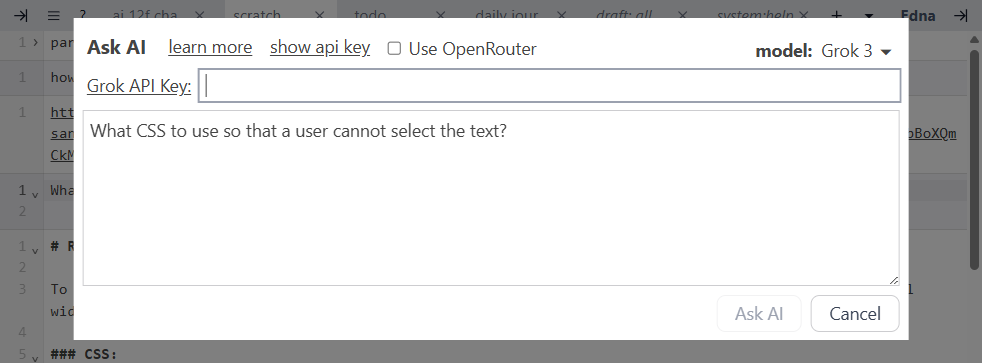
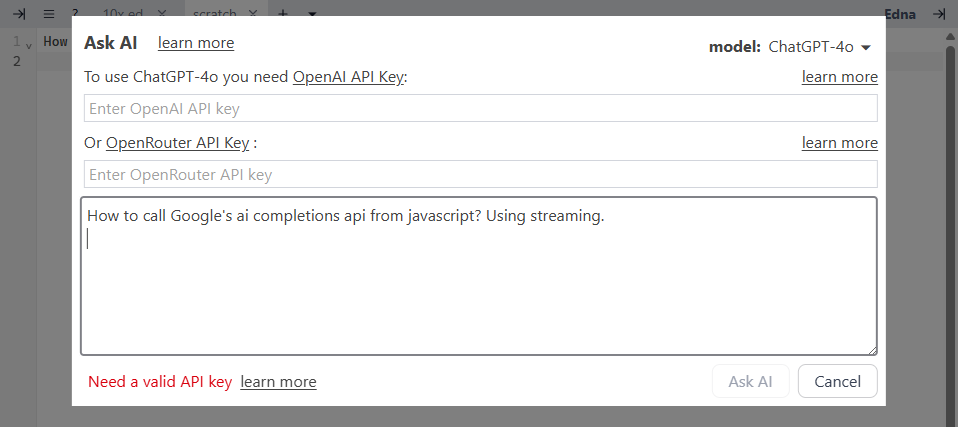
update docs for Ask AI UI tweaks

diff --git a/src/public/help-win.html b/src/public/help-win.html
@@ -191,7 +191,7 @@ Ctrl + Shift + F       Search in all notes
 <p><code>Rename current note</code> in command palette (<code>Ctrl + Shift + K</code>).</p>
 <p><img src="/help-rename-note.png" alt="Rename note"></p>
 <h1 id="sidebar" tabindex="-1"><a class="header-anchor" href="#sidebar">Sidebar</a></h1>
-<p>Click icon in top left corner to show and hide sidebar:</p>
+<p>Click icon in top left corner to show / hide sidebar:</p>
 <p><img src="/help-sidebar.png" alt="Sidebar"></p>
 <h1 id="default-notes" tabindex="-1"><a class="header-anchor" href="#default-notes">Default notes</a></h1>
 <p>At first run we create 3 default notes:</p>
@@ -205,7 +205,7 @@ Ctrl + Shift + F       Search in all notes
 <p><code>inbox</code> for storing things to process later e.g. links to YouTube videos to watch later or web pages to read later.</p>
 <p><code>daily journal</code> is for daily notes. We auto-create a block for each day.</p>
 <h1 id="search-and-replace" tabindex="-1"><a class="header-anchor" href="#search-and-replace">Search and replace</a></h1>
-<p>Press <code>Ctrl + F</code> for search UI:</p>
+<p>Press <code>Ctrl + F</code> for search / replace UI:</p>
 <p><img src="/help-find.png" alt="Search in note"></p>
 <p>We support:</p>
 <ul>
@@ -219,7 +219,7 @@ Ctrl + Shift + F       Search in all notes
 <li><code>Ctrl + Shift + F</code></li>
 <li><code>Find in notes</code> in Command Palette (Mod + Shift + K)</li>
 </ul>
-<p><img src="/help-notes-search.png" alt="Search in notes"></p>
+<p><img src="/help-find-all-notes.png" alt="Search in notes"></p>
 <p>The search algorightm is:</p>
 <ul>
 <li>if you search for <code>foo,</code> it'll find all lines that have <code>foo</code></li>
@@ -227,7 +227,7 @@ Ctrl + Shift + F       Search in all notes
 <li>if you want exact search: <code>&quot;foo bar&quot;</code></li>
 </ul>
 <h1 id="ask-ai" tabindex="-1"><a class="header-anchor" href="#ask-ai">Ask AI</a></h1>
-<p>We provide a basic functionality for asking AI/LLM a question and getting a response.</p>
+<p>Edna has a basic AI chat functionality. You can ask AI a question and get a response.</p>
 <p>It's optimized for the following workflow:</p>
 <ul>
 <li>type your question in a block</li>
@@ -236,33 +236,41 @@ Ctrl + Shift + F       Search in all notes
 <li>send the query to AI / LLM and get a response</li>
 <li>optionally insert the response as a new block</li>
 </ul>
-<p>Use context menu <code>Ask AI</code> or <code>Ask AI</code> command in command palette (<code>Ctrl + Shift + K</code>).</p>
-<p>We open AI chat interface pre-populated with the content of selection or current block.</p>
+<p>To invoke AI chat:</p>
+<ul>
+<li>context menu <code>Ask AI</code></li>
+<li><code>Ask AI</code> command in command palette (<code>Ctrl + Shift + K</code>)</li>
+</ul>
+<p>The question is pre-populated with the content of selection or current block.</p>
 <p><img src="/help-ask-ai.png" alt="Ask AI"></p>
-<p>You can edit your question and press <code>Ask AI</code> button to send the question and receive the response.</p>
+<p>You can edit your question then click <code>Ask AI</code> button to send the question and receive the response.</p>
 <p>Once you receive the response, you can insert it as new block.</p>
 <p><img src="/help-ask-ai-response.png" alt="Ask AI Response"></p>
-<h2 id="ai-model-picker" tabindex="-1"><a class="header-anchor" href="#ai-model-picker">AI Model Picker</a></h2>
-<p>We support a lot of AI models. You can pick the model using selector in upper right corner.</p>
-<p><img src="/help-ask-ai-pick-model.png" alt="Ask AI models"></p>
-<p>We don't charge for AI but AI providers do. We show the price for million input tokens and million output tokens on the right.</p>
-<p>You need to provide your own API key.</p>
+<h2 id="api-keys" tabindex="-1"><a class="header-anchor" href="#api-keys">API keys</a></h2>
+<p>But first, you'll need to provide an API key.</p>
+<p>We don't charge for AI but AI providers do.</p>
 <p><img src="/help-ask-ai-api-key.png" alt="Ask AI enter key"></p>
 <p>We support:</p>
 <ul>
-<li><a href="openai.com" target="_blank">OpenAI</a> for ChatGPT etc.</li>
-<li><a href="https://x.ai/" target="_blank">xAI</a> for Grok</li>
-<li><a href="https://openrouter.ai/" target="_blank">OpenRouter</a> for all models (including OpenAI / xAI models)</li>
+<li><a href="openai.com" target="_blank">OpenAI</a> for ChatGPT etc. Read how to <a href="#getting-openai-api-key">get OpenAI key</a></li>
+<li><a href="https://x.ai/" target="_blank">xAI</a> for Grok. Read how to <a href="#getting-xai-(grok)-api-key">get xAI key</a></li>
+<li><a href="https://openrouter.ai/" target="_blank">OpenRouter</a> for all models (including OpenAI / xAI models). Read how to <a href="#getting-openrouter-api-key">get OpenRouter key</a></li>
 </ul>
-<p>If you don't have API key, you need to get one. We recommend creating a unique api key for Edna.</p>
-<p>Different models have different prices charged by API providers (not us).</p>
-<p>The charge per usage. There's a fee for the size of your question (input tokens) and size of the response (output tokens).</p>
+<p>We recommend creating a unique API key for Edna.</p>
+<p>If you provide both xAI/OpenAI API key and OpenRouter API key, we'll use xAI/OpenAI.</p>
+<h2 id="ai-model-picker" tabindex="-1"><a class="header-anchor" href="#ai-model-picker">AI Model Picker</a></h2>
+<p>We support 169 AI models. You can pick the model using picker in upper right corner.</p>
+<p><img src="/help-ask-ai-pick-model.png" alt="Ask AI models"></p>
+<p>We don't charge for AI but AI providers do.</p>
+<p>Different models have different prices charged by API providers.</p>
+<p>They charge per usage, not as a subscription. If you don't use the API, you are not charged.</p>
+<p>There's a fee for the size of your question (input tokens) and size of the response (output tokens).</p>
 <p>Token is pretty much a word so think &quot;number of words in the question or response&quot;.</p>
-<p>We show the prices per million input tokens and million output tokens on the right side of the model selector.</p>
+<p>We show the prices per million input tokens and million output tokens on the right side of the model picker.</p>
 <h2 id="free-models" tabindex="-1"><a class="header-anchor" href="#free-models">Free models</a></h2>
-<p>Some OpenRouter models are free. They show 0 for the price. You can also type <strong>free</strong> in model selector to see free models.</p>
+<p>Some OpenRouter models are free. They show 0 for the price. You can also type <strong>free</strong> in model picker to see free models.</p>
 <p><img src="/help-ask-ai-free-models.png" alt="Ask AI free models"></p>
-<p>You still need an OpenRouter API key to use free models.</p>
+<p>You still need an <a href="#getting-openrouter-api-key">OpenRouter API key</a> and setup billing to use free models.</p>
 <h2 id="getting-openai-api-key" tabindex="-1"><a class="header-anchor" href="#getting-openai-api-key">Getting OpenAI API key</a></h2>
 <p>To use OpenAI models you need to obtain API key from <a href="https://platform.openai.com/settings/organization/api-keys" target="_blank">OpenAI</a>.</p>
 <p>You need to create an account and setup billing. OpenAI charges for usage of API calls so you don't pay if you don't use the API.</p>
@@ -276,12 +284,12 @@ Ctrl + Shift + F       Search in all notes
 <p>To make it easier to compare prices, we show the price for million input tokens and a million output tokens in <a href="#ai-model-picker">AI model picker</a>.</p>
 <p>You can also use OpenRouter API key (they charge ~5% on top of xAI prices).</p>
 <h2 id="getting-openrouter-api-key" tabindex="-1"><a class="header-anchor" href="#getting-openrouter-api-key">Getting OpenRouter API Key</a></h2>
-<p>To use majority of models you need to obtain API key from <a href="https://openrouter.ai/settings/keys" target="_blank">OpenRouter</a>.</p>
+<p>All models can be used via OpenRouter. You need to obtain API key from <a href="https://openrouter.ai/settings/keys" target="_blank">OpenRouter</a>.</p>
 <p>You need to create an account and setup billing. OpenRouter charges for usage of API calls so you don't pay if you don't use the API.</p>
 <p>They charge per input tokens and output tokens. A token is more or less a word.</p>
 <p>To make it easier to compare prices, we show the price for million input tokens and a million output tokens in <a href="#ai-model-picker">AI model picker</a>.</p>
 <p>OpenRouter provides a unified interface for accessing models from many providers.</p>
-<p>They charge the provider's price plus ~5% to provide their service.</p>
+<p>They charge the provider's price plus around 5%.</p>
 <p>OpenRouter provides free models but you still need to have an API key.</p>
 <h1 id="storing-notes-on-disk" tabindex="-1"><a class="header-anchor" href="#storing-notes-on-disk">Storing notes on disk</a></h1>
 <p>By default notes are stored in the browser (localStorage).</p>

diff --git a/src/public/help-mac.html b/src/public/help-mac.html
@@ -190,7 +190,7 @@
 <p><code>Rename current note</code> in command palette (<code>⌘ + Shift + K</code>).</p>
 <p><img src="/help-rename-note.png" alt="Rename note"></p>
 <h1 id="sidebar" tabindex="-1"><a class="header-anchor" href="#sidebar">Sidebar</a></h1>
-<p>Click icon in top left corner to show and hide sidebar:</p>
+<p>Click icon in top left corner to show / hide sidebar:</p>
 <p><img src="/help-sidebar.png" alt="Sidebar"></p>
 <h1 id="default-notes" tabindex="-1"><a class="header-anchor" href="#default-notes">Default notes</a></h1>
 <p>At first run we create 3 default notes:</p>
@@ -204,7 +204,7 @@
 <p><code>inbox</code> for storing things to process later e.g. links to YouTube videos to watch later or web pages to read later.</p>
 <p><code>daily journal</code> is for daily notes. We auto-create a block for each day.</p>
 <h1 id="search-and-replace" tabindex="-1"><a class="header-anchor" href="#search-and-replace">Search and replace</a></h1>
-<p>Press <code>⌘ + F</code> for search UI:</p>
+<p>Press <code>⌘ + F</code> for search / replace UI:</p>
 <p><img src="/help-find.png" alt="Search in note"></p>
 <p>We support:</p>
 <ul>
@@ -218,7 +218,7 @@
 <li><code>⌘ + Shift + F</code></li>
 <li><code>Find in notes</code> in Command Palette (Mod + Shift + K)</li>
 </ul>
-<p><img src="/help-notes-search.png" alt="Search in notes"></p>
+<p><img src="/help-find-all-notes.png" alt="Search in notes"></p>
 <p>The search algorightm is:</p>
 <ul>
 <li>if you search for <code>foo,</code> it'll find all lines that have <code>foo</code></li>
@@ -226,7 +226,7 @@
 <li>if you want exact search: <code>&quot;foo bar&quot;</code></li>
 </ul>
 <h1 id="ask-ai" tabindex="-1"><a class="header-anchor" href="#ask-ai">Ask AI</a></h1>
-<p>We provide a basic functionality for asking AI/LLM a question and getting a response.</p>
+<p>Edna has a basic AI chat functionality. You can ask AI a question and get a response.</p>
 <p>It's optimized for the following workflow:</p>
 <ul>
 <li>type your question in a block</li>
@@ -235,33 +235,41 @@
 <li>send the query to AI / LLM and get a response</li>
 <li>optionally insert the response as a new block</li>
 </ul>
-<p>Use context menu <code>Ask AI</code> or <code>Ask AI</code> command in command palette (<code>⌘ + Shift + K</code>).</p>
-<p>We open AI chat interface pre-populated with the content of selection or current block.</p>
+<p>To invoke AI chat:</p>
+<ul>
+<li>context menu <code>Ask AI</code></li>
+<li><code>Ask AI</code> command in command palette (<code>⌘ + Shift + K</code>)</li>
+</ul>
+<p>The question is pre-populated with the content of selection or current block.</p>
 <p><img src="/help-ask-ai.png" alt="Ask AI"></p>
-<p>You can edit your question and press <code>Ask AI</code> button to send the question and receive the response.</p>
+<p>You can edit your question then click <code>Ask AI</code> button to send the question and receive the response.</p>
 <p>Once you receive the response, you can insert it as new block.</p>
 <p><img src="/help-ask-ai-response.png" alt="Ask AI Response"></p>
-<h2 id="ai-model-picker" tabindex="-1"><a class="header-anchor" href="#ai-model-picker">AI Model Picker</a></h2>
-<p>We support a lot of AI models. You can pick the model using selector in upper right corner.</p>
-<p><img src="/help-ask-ai-pick-model.png" alt="Ask AI models"></p>
-<p>We don't charge for AI but AI providers do. We show the price for million input tokens and million output tokens on the right.</p>
-<p>You need to provide your own API key.</p>
+<h2 id="api-keys" tabindex="-1"><a class="header-anchor" href="#api-keys">API keys</a></h2>
+<p>But first, you'll need to provide an API key.</p>
+<p>We don't charge for AI but AI providers do.</p>
 <p><img src="/help-ask-ai-api-key.png" alt="Ask AI enter key"></p>
 <p>We support:</p>
 <ul>
-<li><a href="openai.com" target="_blank">OpenAI</a> for ChatGPT etc.</li>
-<li><a href="https://x.ai/" target="_blank">xAI</a> for Grok</li>
-<li><a href="https://openrouter.ai/" target="_blank">OpenRouter</a> for all models (including OpenAI / xAI models)</li>
+<li><a href="openai.com" target="_blank">OpenAI</a> for ChatGPT etc. Read how to <a href="#getting-openai-api-key">get OpenAI key</a></li>
+<li><a href="https://x.ai/" target="_blank">xAI</a> for Grok. Read how to <a href="#getting-xai-(grok)-api-key">get xAI key</a></li>
+<li><a href="https://openrouter.ai/" target="_blank">OpenRouter</a> for all models (including OpenAI / xAI models). Read how to <a href="#getting-openrouter-api-key">get OpenRouter key</a></li>
 </ul>
-<p>If you don't have API key, you need to get one. We recommend creating a unique api key for Edna.</p>
-<p>Different models have different prices charged by API providers (not us).</p>
-<p>The charge per usage. There's a fee for the size of your question (input tokens) and size of the response (output tokens).</p>
+<p>We recommend creating a unique API key for Edna.</p>
+<p>If you provide both xAI/OpenAI API key and OpenRouter API key, we'll use xAI/OpenAI.</p>
+<h2 id="ai-model-picker" tabindex="-1"><a class="header-anchor" href="#ai-model-picker">AI Model Picker</a></h2>
+<p>We support 169 AI models. You can pick the model using picker in upper right corner.</p>
+<p><img src="/help-ask-ai-pick-model.png" alt="Ask AI models"></p>
+<p>We don't charge for AI but AI providers do.</p>
+<p>Different models have different prices charged by API providers.</p>
+<p>They charge per usage, not as a subscription. If you don't use the API, you are not charged.</p>
+<p>There's a fee for the size of your question (input tokens) and size of the response (output tokens).</p>
 <p>Token is pretty much a word so think &quot;number of words in the question or response&quot;.</p>
-<p>We show the prices per million input tokens and million output tokens on the right side of the model selector.</p>
+<p>We show the prices per million input tokens and million output tokens on the right side of the model picker.</p>
 <h2 id="free-models" tabindex="-1"><a class="header-anchor" href="#free-models">Free models</a></h2>
-<p>Some OpenRouter models are free. They show 0 for the price. You can also type <strong>free</strong> in model selector to see free models.</p>
+<p>Some OpenRouter models are free. They show 0 for the price. You can also type <strong>free</strong> in model picker to see free models.</p>
 <p><img src="/help-ask-ai-free-models.png" alt="Ask AI free models"></p>
-<p>You still need an OpenRouter API key to use free models.</p>
+<p>You still need an <a href="#getting-openrouter-api-key">OpenRouter API key</a> and setup billing to use free models.</p>
 <h2 id="getting-openai-api-key" tabindex="-1"><a class="header-anchor" href="#getting-openai-api-key">Getting OpenAI API key</a></h2>
 <p>To use OpenAI models you need to obtain API key from <a href="https://platform.openai.com/settings/organization/api-keys" target="_blank">OpenAI</a>.</p>
 <p>You need to create an account and setup billing. OpenAI charges for usage of API calls so you don't pay if you don't use the API.</p>
@@ -275,12 +283,12 @@
 <p>To make it easier to compare prices, we show the price for million input tokens and a million output tokens in <a href="#ai-model-picker">AI model picker</a>.</p>
 <p>You can also use OpenRouter API key (they charge ~5% on top of xAI prices).</p>
 <h2 id="getting-openrouter-api-key" tabindex="-1"><a class="header-anchor" href="#getting-openrouter-api-key">Getting OpenRouter API Key</a></h2>
-<p>To use majority of models you need to obtain API key from <a href="https://openrouter.ai/settings/keys" target="_blank">OpenRouter</a>.</p>
+<p>All models can be used via OpenRouter. You need to obtain API key from <a href="https://openrouter.ai/settings/keys" target="_blank">OpenRouter</a>.</p>
 <p>You need to create an account and setup billing. OpenRouter charges for usage of API calls so you don't pay if you don't use the API.</p>
 <p>They charge per input tokens and output tokens. A token is more or less a word.</p>
 <p>To make it easier to compare prices, we show the price for million input tokens and a million output tokens in <a href="#ai-model-picker">AI model picker</a>.</p>
 <p>OpenRouter provides a unified interface for accessing models from many providers.</p>
-<p>They charge the provider's price plus ~5% to provide their service.</p>
+<p>They charge the provider's price plus around 5%.</p>
 <p>OpenRouter provides free models but you still need to have an API key.</p>
 <h1 id="storing-notes-on-disk" tabindex="-1"><a class="header-anchor" href="#storing-notes-on-disk">Storing notes on disk</a></h1>
 <p>By default notes are stored in the browser (localStorage).</p>
